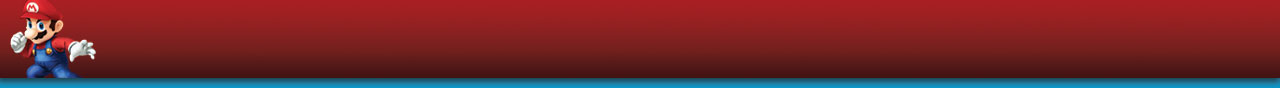
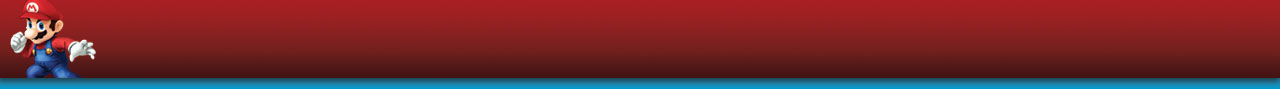
designed regular play mode page

diff --git a/final/mario-war.html b/final/mario-war.html
@@ -11,45 +11,64 @@
 				<h1 class="visuallyhidden">Mario War! The Card Game</h1>
 			</header>
 
-			<aside class="scorebar">
-				<div class="player1-score">
-					<p>Player 1<span>32</span></p>
+			<aside class="clearfix scorebar-reg">
+				<div class="col col1-3 player1-title">
+					<p>Player 1</p>
 				</div>
-				<div class="player2-score">
-					<p>Player 2<span>20</span></p>
+				<div class="col col1-6 player1-score">
+					<p>32</p>
+				</div>
+				<div class="col col1-6 player2-score">
+					<p>32</p>
+				</div>
+				<div class="col col1-3 player2-title">
+					<p>Player 2</p>
 				</div>
 			</aside>
 
-			<!-- <h2 class="visuallyhidden">Choose Your Character</h2>
+			<section class="clearfix">
+				<h2 class="visuallyhidden">Mario War! Play Mode</h2>
 
-			<div class="mario-characters">
-				<img src="images/mario-sm.jpg" alt="mario" title="Mario">
-				<img src="images/luigi-sm.jpg" alt="luigi" title="Luigi">
-				<img src="images/bowser-sm.jpg" alt="bowser" title="Bowser">
-				<img src="images/princess-sm.jpg" alt="princess" title="Princess">
-				<img src="images/yoshi-sm.jpg" alt="yoshi" title="Yoshi">
-			</div>
+				<div class="col col1-12"></div>
 
-			<section>
-				<h3 class="visuallyhidden">Chosen Characters</h3>
-				<div class="col1-6">
-					<div class="player">
-						<img src="images/mario-pick.jpg" alt="mario">
-						<p>Player 1</p>
+				<div class="col col1-3 game-regular">
+					<div class="clearfix">
+						<div class="col col1-2 player1-char">
+							<img src="images/mario-main.jpg" alt="mario">
+						</div>
+						<div class="col col1-2 player1-card">
+							<img src="cards/2_1.png">
+						</div>
+					</div>
+					<div class="clearfix player1-control">
+						<div>
+							<p>Click</p>
+							<button id="player1-play" class="red-button"></button>
+							<p>Press A</p>
+						</div>
 					</div>
 				</div>
-				<div class="col1-6">
-					<div class="character-button">
-						<a href="mario-war.html">Play</a>
+
+				<div class="col col1-6"></div>
+
+				<div class="clearfix col col1-3 game-regular">
+					<div class="clearfix">
+						<div class="col col1-2 player2-card">
+							<img src="cards/3_1.png">
+						</div>
+						<div class="col col1-2 player2-char">
+							<img src="images/bowser-main.jpg" alt="bowser">
+						</div>
+					</div>
+					<div class="clearfix player2-control">
+						<div>
+							<p>Click</p>
+							<button id="player2-play" class="green-button"></button>
+							<p>Press L</p>
+						</div>
 					</div>
 				</div>
-				<div class="col1-6">
-					<div class="player">
-						<img src="images/bowser-pick.jpg" alt="mario">
-						<p>Player 2</p>
-					</div>
-				</div>
-			</section> -->
+			</section>
 		</main>
 		<script src="jquery-1.11.1.js"></script>
 		<script src="war.js"></script>

diff --git a/final/style.css b/final/style.css
@@ -44,6 +44,14 @@ html {
 	width: 16.6666%;
 }
 
+.col1-3 {
+	width: 33.3333%;
+}
+
+.col1-2 {
+	width: 50%;
+}
+
 /* FONTS */
 @font-face {
 	font-family: 'Luckiest-Guy';
@@ -151,7 +159,7 @@ main {
 /* CHARACTER PAGE */
 
 .character {
-	background: url('images/mario-character-bg.jpg') no-repeat top center;
+	background: url('images/mario-character-bg.jpg') no-repeat;
 }
 
 .character-bg {
@@ -216,9 +224,72 @@ main {
 /* REGULAR PLAY MODE */
 
 .regular-mode {
-	background: url('images/mario-regular-mode-bg.jpg') no-repeat top center;
+	background: url('images/mario-regular-mode-bg.jpg') no-repeat center 5px;
 }
 
 .regular-mode-bg {
 	background: #336633;
+}
+
+.scorebar-reg {
+	background: #0099cc;
+	height: 50px;
+}
+
+.scorebar-reg .player1-title p, .scorebar-reg .player2-title p {
+	color: #ffffff;
+	font-size: 18px;
+	text-transform: uppercase;
+	text-align: center;
+	padding-top: 15px;
+}
+
+.scorebar-reg .player1-score, .scorebar-reg .player2-score {
+	color: #ffcc00;
+	font-size: 36px;
+	line-height: 1;
+	padding-top: 8px;
+}
+
+.scorebar-reg .player2-score {
+	text-align: right;
+}
+
+.regular-mode section {
+	padding-top: 20px;
+}
+
+.player1-card img, .player2-card img {
+	display: block;
+	height: 200px;
+	margin: 20px auto;
+}
+
+.player1-control p, .player2-control p {
+	float: left;
+	font-size: 12px;
+	line-height: 1;
+	color: #0099cc;
+	text-transform: uppercase;
+	padding: 23px 20px 0 20px;
+}
+
+.player1-control div, .player2-control div {
+	width: 71%;
+	margin: 0 auto;
+}
+
+.player1-control button, .player2-control button {
+	float: left;
+	width: 65px;
+	height: 67px;
+	border: 0;
+}
+
+.red-button {
+	background: url('images/play-button-red.jpg') no-repeat;
+}
+
+.green-button {
+	background: url('images/play-button-green.jpg') no-repeat;
 }
